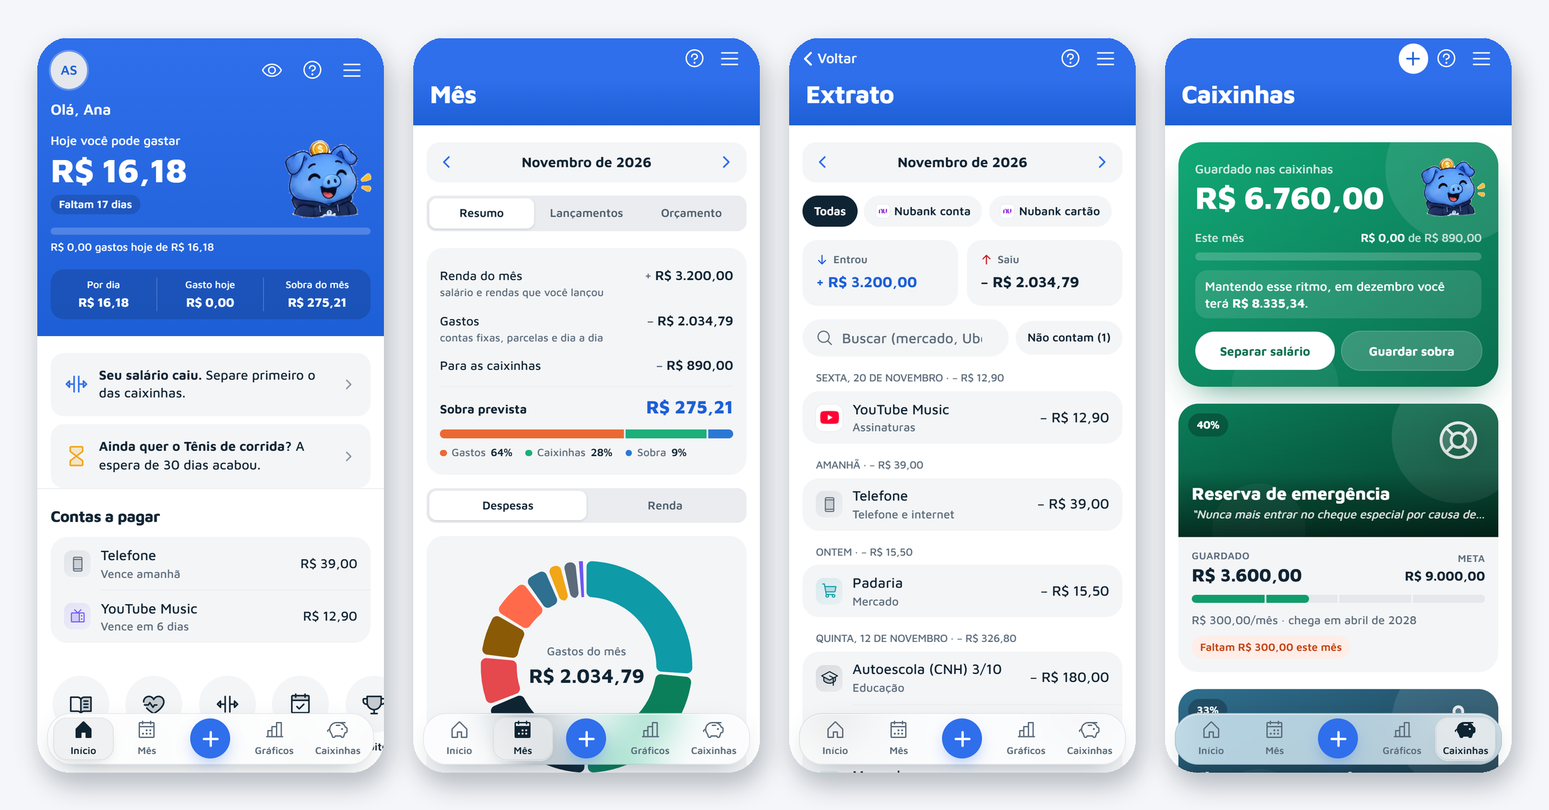
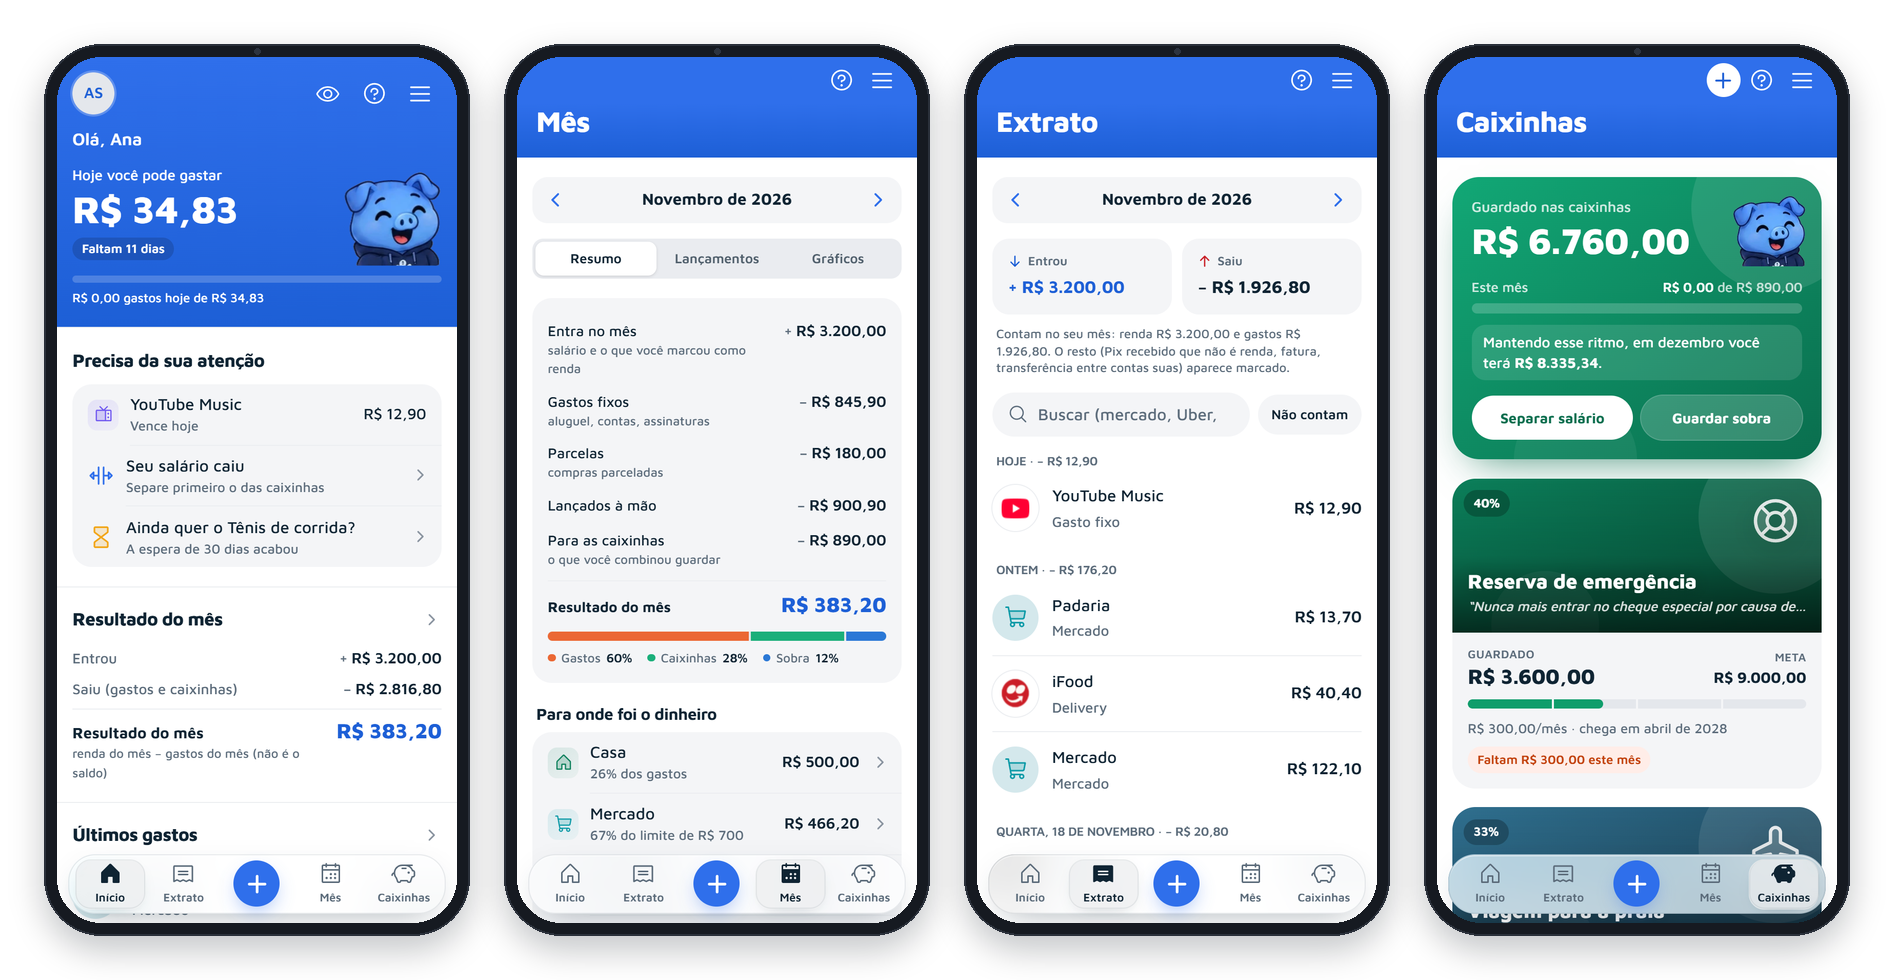
README: telas do celular novas (porquinho sem moeda, telas inteiras em moldura de aparelho, claro e escuro)

Changed region(s): [[0.0, 0.0309, 0.9916, 0.9568]]

diff --git a/README.md b/README.md
@@ -18,13 +18,13 @@ As imagens acompanham o tema do seu GitHub (claro ou escuro), como o próprio ap
 <picture>
   <source media="(prefers-color-scheme: dark)" srcset="docs/img/telas-escuro.png">
   <source media="(prefers-color-scheme: light)" srcset="docs/img/telas-claro.png">
-  <img alt="Telas do Poupei: início com quanto dá para gastar hoje, a conta do mês, extrato com logos das empresas e caixinhas" src="docs/img/telas-claro.png">
+  <img alt="Telas do Poupei no celular: início com quanto dá para gastar hoje, o resumo do mês, o extrato com logos das empresas e as caixinhas" src="docs/img/telas-claro.png">
 </picture>
 
 <picture>
   <source media="(prefers-color-scheme: dark)" srcset="docs/img/telas2-escuro.png">
   <source media="(prefers-color-scheme: light)" srcset="docs/img/telas2-claro.png">
-  <img alt="Telas do Poupei: contas e cartões juntos, ranking de gastos por categoria e o porquinho com as metas do dia" src="docs/img/telas2-claro.png">
+  <img alt="Telas do Poupei no celular: ranking de gastos por categoria, o porquinho com as metas do dia e a saúde financeira" src="docs/img/telas2-claro.png">
 </picture>
 
 ### No computador
